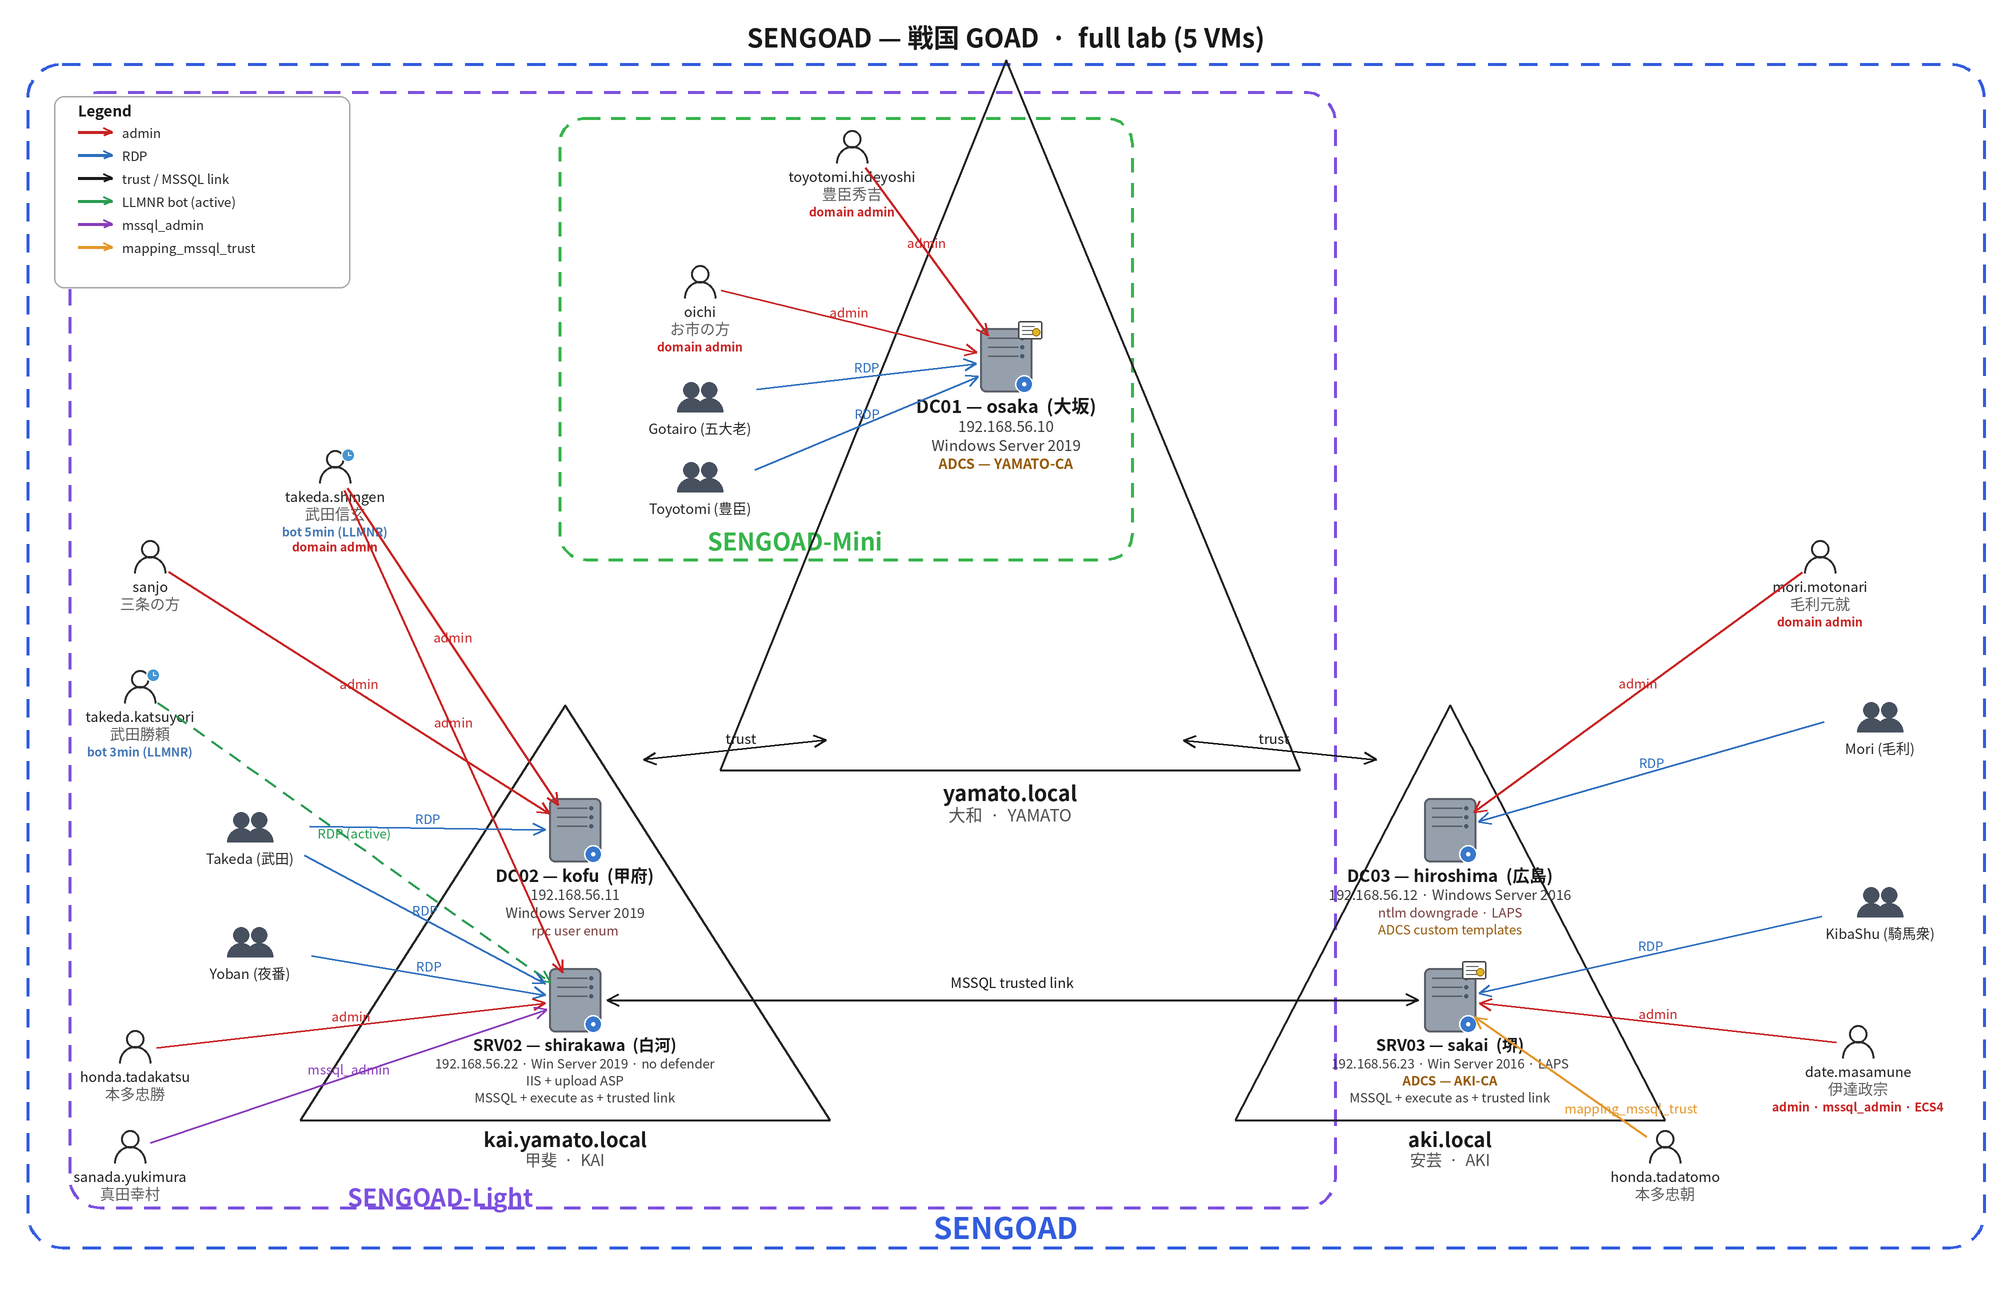
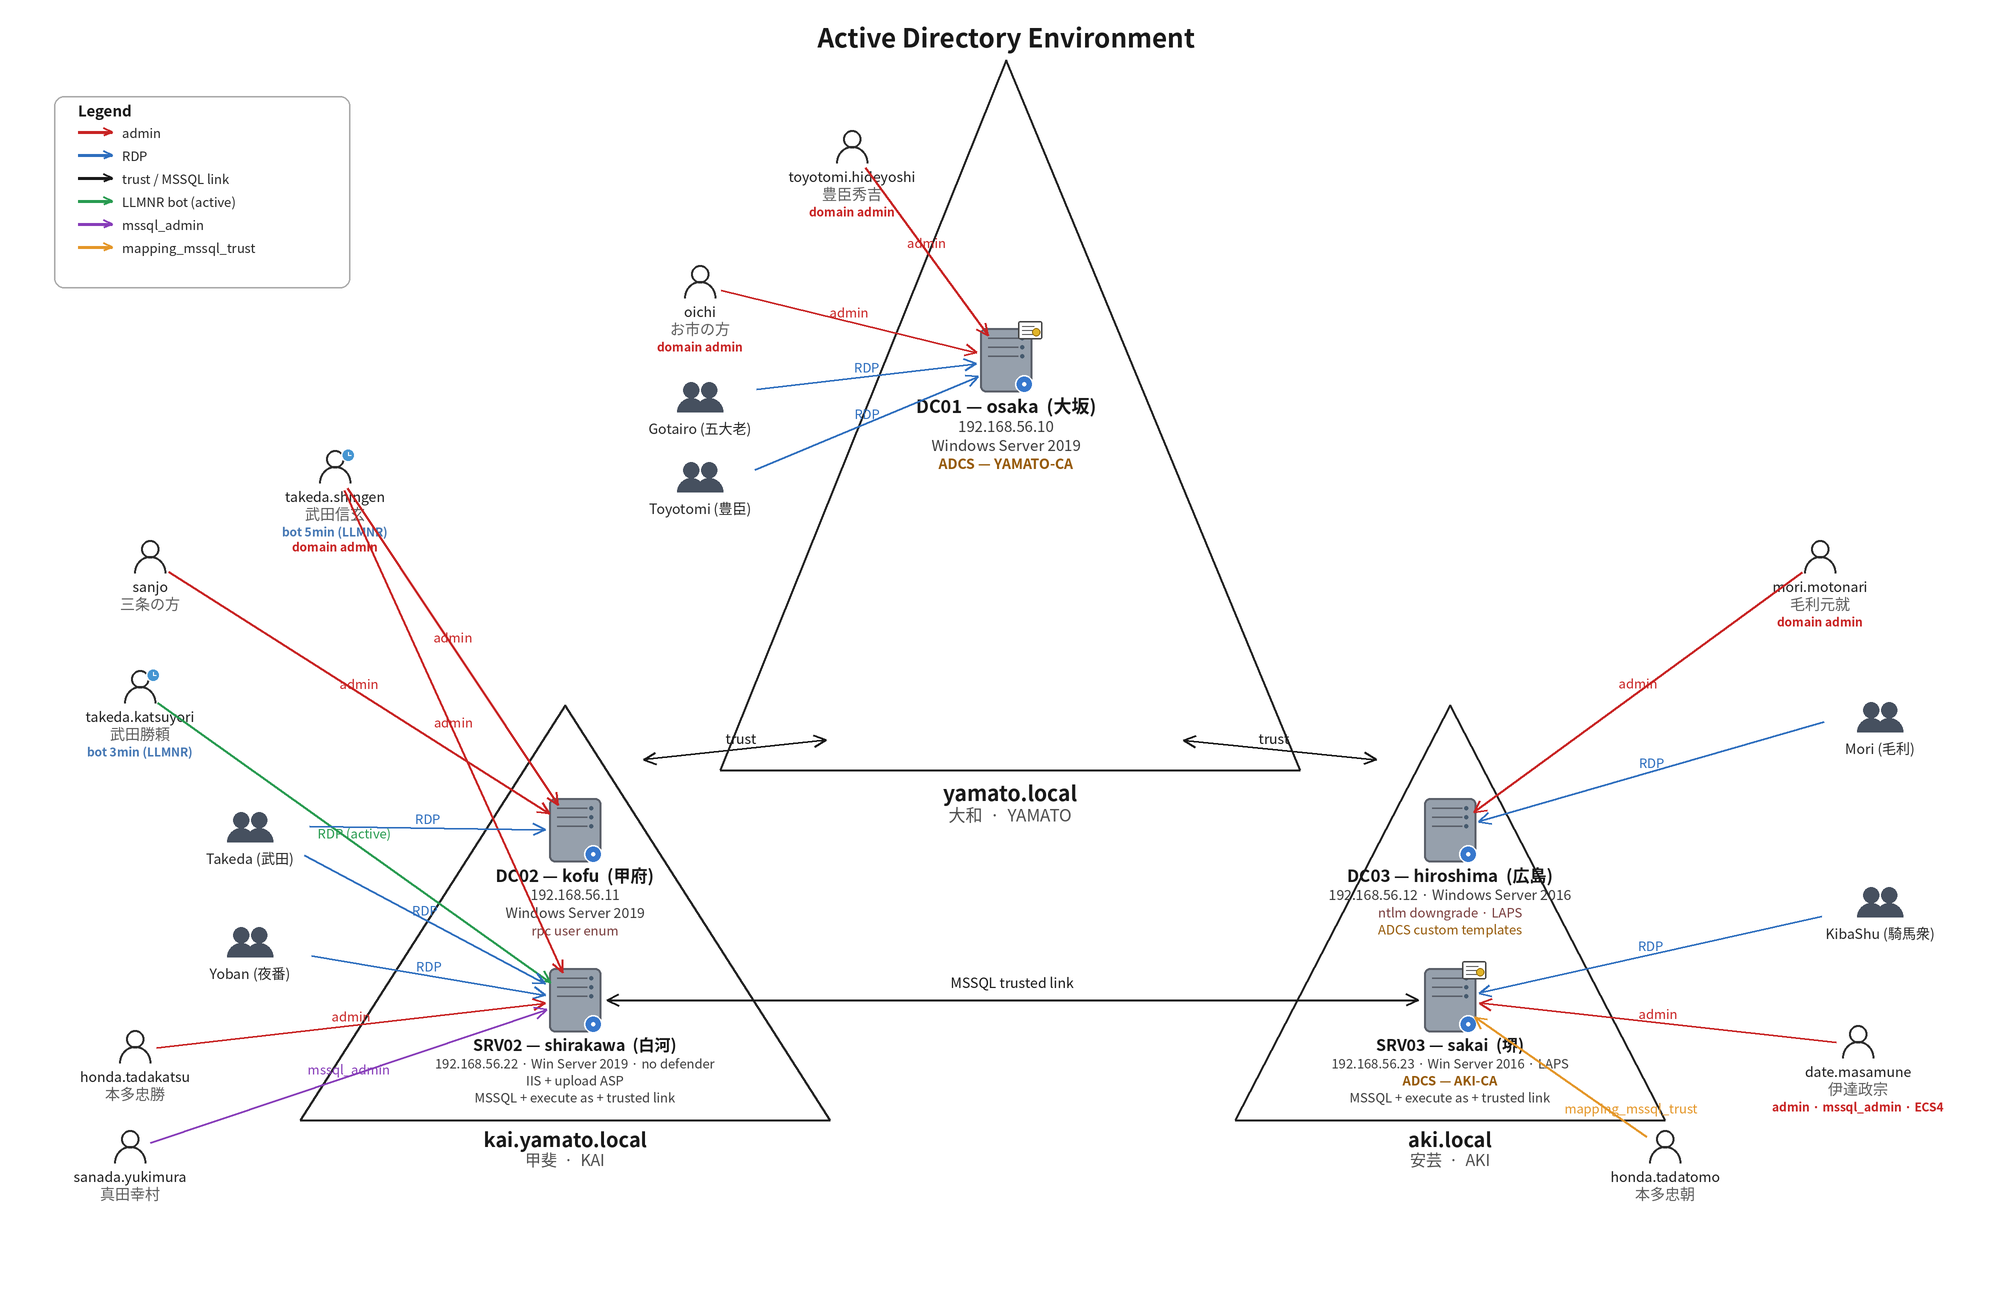
docs: simplify SENGOAD AD topology diagram

diff --git a/docs/img/diagram-SENGOAD-full.py b/docs/img/diagram-SENGOAD-full.py
@@ -1,15 +1,18 @@
 #!/usr/bin/env python3
-"""Render the SENGOAD full network diagram and lab-family overview.
+"""Render a neutral AD topology and the SENGOAD lab-family overview.
 
 Editable source for docs/img/diagram-SENGOAD-full.png and the legacy
 diagram-GOADv3-full.png paths used by the README and MkDocs. Regenerate with:
     pip install pillow            # needs a CJK font (Noto Sans CJK JP)
     python3 docs/img/diagram-SENGOAD-full.py
 Set SENGOAD_FONT_DIR when the Noto Sans CJK files are installed elsewhere.
+Set SENGOAD_AD_ONLY=1 to render only the neutral detailed topology.
 Names follow docs/SENGOAD_mapping_EN.md and ad/SENGOAD/data/inventory.
 """
 import math
 import os
+import subprocess
+import sys
 from PIL import Image, ImageDraw, ImageFont
 
 W, H = 2012, 1300
@@ -20,6 +23,7 @@ d = ImageDraw.Draw(img)
 FONT_DIR = os.environ.get("SENGOAD_FONT_DIR", "/usr/share/fonts/opentype/noto")
 NOTO = os.path.join(FONT_DIR, "NotoSansCJK-Regular.ttc")
 NOTOB = os.path.join(FONT_DIR, "NotoSansCJK-Bold.ttc")
+AD_ONLY = os.environ.get("SENGOAD_AD_ONLY") == "1"
 _fc = {}
 def F(size, bold=False):
     key = (size, bold)
@@ -184,14 +188,15 @@ def block(cx, y, lines, gap=4):
 # ===================================================================
 # SCOPE BOXES (draw first, behind)
 # ===================================================================
-dashed_rrect(28, 64, 1984, 1248, FULL, w=3, r=34, dash=18, gap=13)
-text(1006, 1226, "SENGOAD", F(30, True), FULL, anchor="mm")
+if not AD_ONLY:
+    dashed_rrect(28, 64, 1984, 1248, FULL, w=3, r=34, dash=18, gap=13)
+    text(1006, 1226, "SENGOAD", F(30, True), FULL, anchor="mm")
 
-dashed_rrect(70, 92, 1335, 1208, LIGHT, w=3, r=30, dash=16, gap=12)
-text(440, 1196, "SENGOAD-Light", F(24, True), LIGHT, anchor="mm")
+    dashed_rrect(70, 92, 1335, 1208, LIGHT, w=3, r=30, dash=16, gap=12)
+    text(440, 1196, "SENGOAD-Light", F(24, True), LIGHT, anchor="mm")
 
-dashed_rrect(560, 118, 1132, 560, MINI, w=3, r=26, dash=14, gap=11)
-text(795, 540, "SENGOAD-Mini", F(24, True), MINI, anchor="mm")
+    dashed_rrect(560, 118, 1132, 560, MINI, w=3, r=26, dash=14, gap=11)
+    text(795, 540, "SENGOAD-Mini", F(24, True), MINI, anchor="mm")
 
 # ===================================================================
 # DOMAIN TRIANGLES
@@ -312,7 +317,7 @@ person(335, 470, "takeda.shingen", "武田信玄",
        [("bot 5min (LLMNR)", (70, 120, 180)), ("domain admin", RED)],
        P_KOFU, RED, "admin", bot=True, extra_targets=[(P_SHIRA, RED, "admin", False)])
 person(140, 690, "takeda.katsuyori", "武田勝頼", [("bot 3min (LLMNR)", (70, 120, 180))],
-       P_SHIRA, GREEN, "RDP (active)", bot=True, dashed=True)
+       P_SHIRA, GREEN, "RDP (active)", bot=True, dashed=not AD_ONLY)
 group(250, 830); text(250, 858, "Takeda (武田)", F(14), (40, 40, 40), anchor="mm")
 arrow((288, 826), P_KOFU, BLUE, 2, label="RDP", r1=22, r2=30, lf=F(13))
 arrow((285, 845), P_SHIRA, BLUE, 2, label="RDP", r1=22, r2=34, lf=F(13))
@@ -337,7 +342,12 @@ person(1665, 1150, "honda.tadatomo", "本多忠朝", [],
 # ===================================================================
 # TITLE + LEGEND
 # ===================================================================
-text(1006, 36, "SENGOAD — 戦国 GOAD  ·  full lab (5 VMs)", F(26, True), BLACK, anchor="mm")
+title = (
+    "Active Directory Environment"
+    if AD_ONLY
+    else "SENGOAD — 戦国 GOAD  ·  full lab (5 VMs)"
+)
+text(1006, 36, title, F(26, True), BLACK, anchor="mm")
 
 # legend (white backing so it sits clear of the dashed scope borders)
 lx, ly = 78, 132
@@ -354,7 +364,11 @@ for i, (lab, c) in enumerate(items):
 
 here = os.path.dirname(os.path.abspath(__file__))
 out = img.resize((W, H), Image.LANCZOS)
-out.save(os.path.join(here, "diagram-SENGOAD-full.png"))
+if AD_ONLY:
+    target = os.path.join(here, "diagram-SENGOAD-full.png")
+    out.save(target)
+    print("saved", out.size, "to", target)
+    raise SystemExit
 
 # ===================================================================
 # LAB-FAMILY OVERVIEW WITH EXTENSIONS
@@ -411,4 +425,9 @@ legacy_targets = [
 for target in legacy_targets:
     overview_out.save(target)
 
-print("saved", out.size, "and", overview_out.size)
+child_env = os.environ.copy()
+child_env["SENGOAD_AD_ONLY"] = "1"
+# Render the neutral topology in a second pass so the overview above keeps its
+# branded scope boxes and remains backward-compatible at the legacy path.
+subprocess.run([sys.executable, os.path.abspath(__file__)], check=True, env=child_env)
+print("saved branded overview", overview_out.size, "and neutral topology", out.size)
